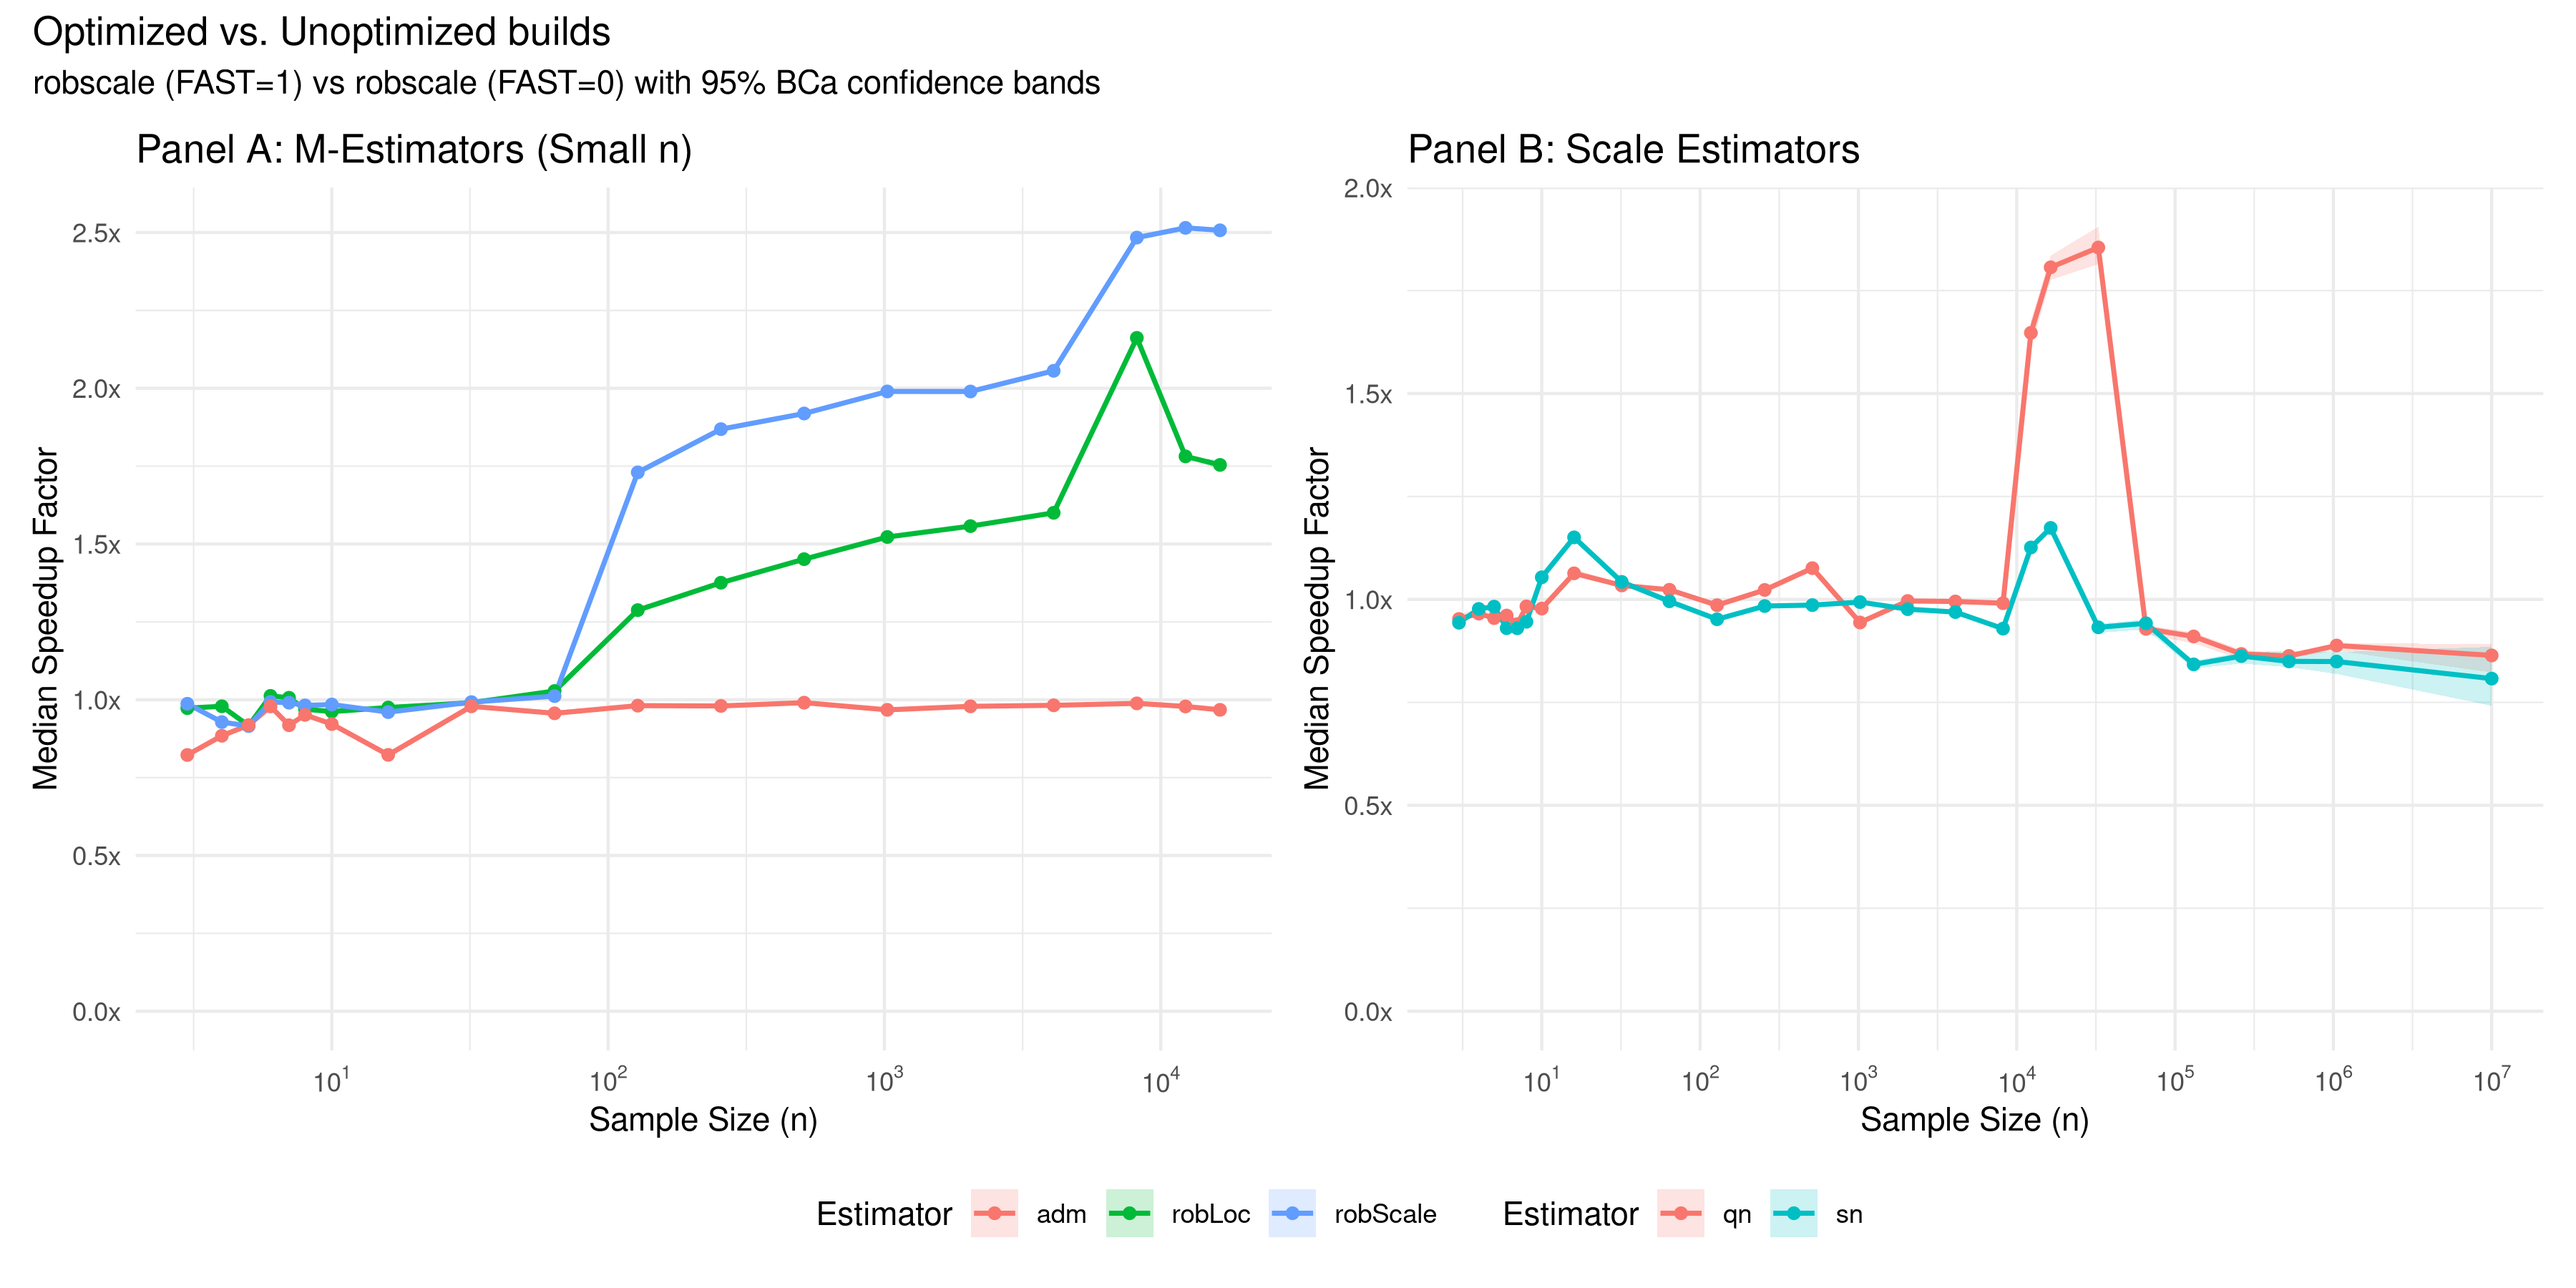
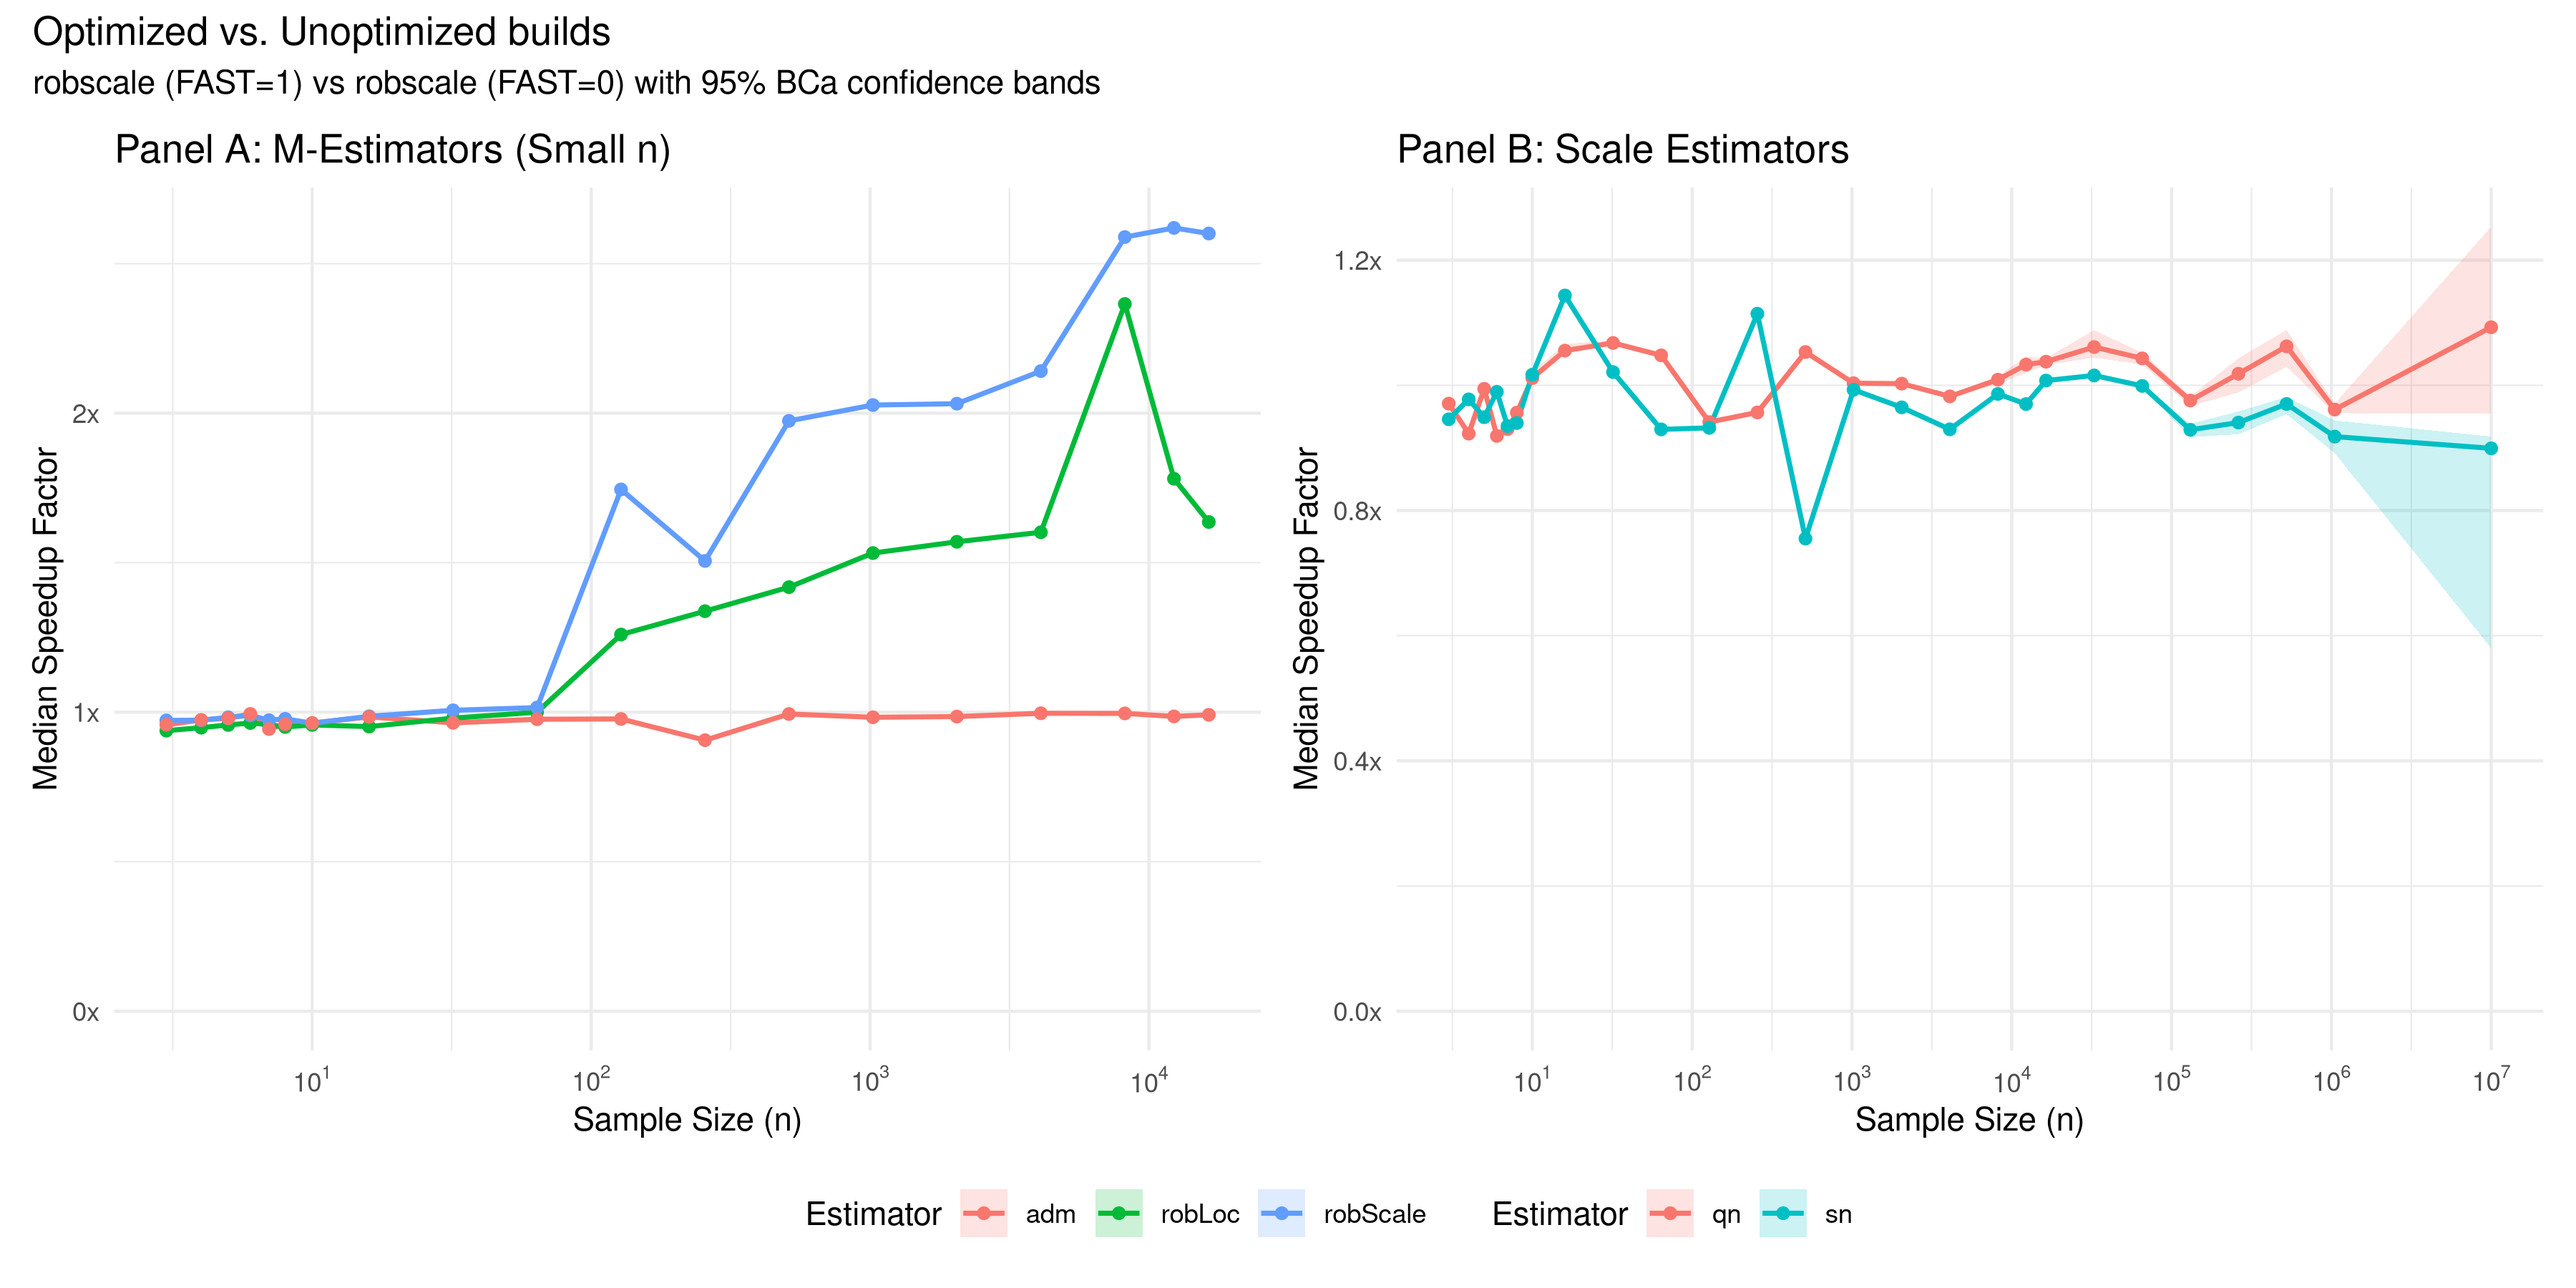
Refactor benchmarks and dynamicize README
- Remove obsolete 0.1.5 parity benchmarks from the targets pipeline.
- Dynamicize README.qmd to programmatically generate performance statistics and tables from latest benchmark results.
- Add source file tracking to _targets.R for automated re-benchmarking.
- Clean up analysis and plotting scripts by removing deprecated comparison logic.

diff --git a/README.md b/README.md
@@ -15,10 +15,10 @@ time-critical workflows.
 `robscale` resolves both bottlenecks. Its C++17 kernels replace
 interpreted R loops with SIMD-accelerated transcendental functions,
 Newton–Raphson iteration, and parallelized $O(n \log n)$ algorithms.
-Against `revss`, the package achieves **3.3–29.4×** speedups for the
+Against `revss`, the package achieves **9.7–28.6×** speedups for the
 small-sample M-estimators. Against `robustbase`, it achieves
-**1.9–5.8×** for $S_n$ and **1.8–6.1×** for $Q_n$ —with gains peaking
-near **6.1×** at $n = 10^7$ as TBB parallelism reduces the computational
+**1.9–6.5×** for $S_n$ and **1.8–6.0×** for $Q_n$ —with gains peaking
+near **6.5×** at $n = 10^7$ as TBB parallelism reduces the computational
 bottleneck for massive datasets.
 
 ## Installation
@@ -62,11 +62,11 @@ Table 1
 
 | Function | Purpose | ARE | Breakdown | Speedup vs revss | Speedup vs robustbase |
 |:---|:---|:---|:---|:---|:---|
-| `qn(x)` | $Q_n$ scale estimator | **82.3%** | 50% | — | **1.8x** \[1.8x, 1.8x\] to **6.1x** \[6.1x, 6.2x\] |
-| `sn(x)` | $S_n$ scale estimator | **58.2%** | 50% | — | **1.9x** \[1.9x, 1.9x\] to **5.8x** \[5.3x, 6.1x\] |
-| `robLoc(x)` | M-estimate of location | **41.3%** | 50% | **3.8x** \[3.8x, 3.8x\] to **29.4x** \[29.3x, 29.5x\] | — |
-| `robScale(x)` | M-estimate of scale | **60.5%** | 50% | **3.3x** \[3.3x, 3.3x\] to **24.2x** \[24.2x, 24.2x\] | — |
-| `adm(x)` | Average distance to median | **88.3%** | $1/n$ | **5.6x** \[5.6x, 5.6x\] to **12.4x** \[12.4x, 12.5x\] | — |
+| `qn(x)` | $Q_n$ scale estimator | **82.3%** | 50% | — | **1.8x** \[1.8x, 1.8x\] to **6.0x** \[5.9x, 6.1x\] |
+| `sn(x)` | $S_n$ scale estimator | **58.2%** | 50% | — | **1.9x** \[1.9x, 1.9x\] to **6.5x** \[6.2x, 6.7x\] |
+| `robLoc(x)` | M-estimate of location | **41.3%** | 50% | **3.7x** \[3.7x, 3.7x\] to **28.6x** \[28.5x, 28.8x\] | — |
+| `robScale(x)` | M-estimate of scale | **60.5%** | 50% | **3.3x** \[3.3x, 3.3x\] to **23.7x** \[23.7x, 23.8x\] | — |
+| `adm(x)` | Average distance to median | **88.3%** | $1/n$ | **5.4x** \[5.4x, 5.5x\] to **13.0x** \[13.0x, 13.1x\] | — |
 
 </div>
 
@@ -208,7 +208,7 @@ qn(c(1, 2, 3, 5, 7, 8))
 
 Computes the $S_n$ estimator of scale (Rousseeuw & Croux, 1993). $S_n$
 is more statistically efficient than the MAD and maintains a 50%
-breakdown point. `robscale` uses optimal sorting networks for $n \le 8$
+breakdown point. `robscale` uses optimal sorting networks for $n \le 16$
 and a highly optimized parallelized inner-median algorithm for general
 samples.
 
@@ -337,11 +337,11 @@ operation.
 a single linear scan over the upper partition locates the $(k{+}1)$th
 element needed for averaging.
 
-For $n \leq 8$—the core target regime—the selection step uses optimal
-sorting networks (Knuth, TAOCP Vol. 3, Sec. 5.3.4). These are
-conditional compare-and-swap sequences—typically compiled to branchless
-machine code at `-O2`—with the minimum number of comparisons for each
-$n$:
+For $n \leq 16$—the core target regime—the selection step uses optimal
+sorting networks (Knuth, TAOCP Vol. 3, Sec. 5.3.4; Dobbelaere’s verified
+optimal networks for $n = 9$–$16$). These are conditional
+compare-and-swap sequences—typically compiled to branchless machine code
+at `-O2`—with the minimum number of comparisons for each $n$:
 
 | $n$ | Comparators |
 |----:|------------:|
@@ -351,8 +351,17 @@ $n$:
 |   6 |          12 |
 |   7 |          16 |
 |   8 |          19 |
+|   9 |          25 |
+|  10 |          29 |
+|  12 |          39 |
+|  14 |          51 |
+|  16 |          60 |
 
-For $9 \leq n < 600$, the code delegates to `std::nth_element`
+Cross-platform benchmarking confirmed 2–4$\times$ speedups over
+`std::sort` for $n = 9$–$16$ on both ARM64 (Apple Silicon) and x86_64
+(AMD Zen 3).
+
+For $17 \leq n < 600$, the code delegates to `std::nth_element`
 (introselect), which provides $O(n)$ worst-case selection with
 median-of-three pivot selection. For $n \geq 600$, the Floyd–Rivest
 algorithm (Floyd & Rivest, 1975) applies a statistical narrowing step
@@ -424,21 +433,33 @@ search (exploiting sortedness) in O(log n) per element, then dispatches
 the outer $n$ iterations across TBB threads via `SnWorker`. For
 $n \leq 2048$, a stack-allocated arena avoids heap allocation entirely.
 
-|        $n$ | `robustbase::Qn` ($\mu s$) | `robscale::qn` ($\mu s$) |  Speedup |
-|-----------:|---------------------------:|-------------------------:|---------:|
-|          8 |                        8.9 |                      1.3 | **6.8×** |
-|         64 |                       13.6 |                      5.3 | **2.6×** |
-|      1 024 |                      462.7 |                    276.9 | **1.7×** |
-|     65 536 |                     49 324 |                   12 247 | **4.0×** |
-| 10 000 000 |                 23 374 593 |                2 403 552 | **9.7×** |
+<div id="tbl-qn-bench">
 
-|        $n$ | `robustbase::Sn` ($\mu s$) | `robscale::sn` ($\mu s$) |  Speedup |
-|-----------:|---------------------------:|-------------------------:|---------:|
-|          8 |                        4.1 |                      1.3 | **3.3×** |
-|         64 |                        5.3 |                      1.8 | **3.0×** |
-|      1 024 |                       33.0 |                     17.4 | **1.9×** |
-|     65 536 |                      7 265 |                    1 315 | **5.5×** |
-| 10 000 000 |                  1 461 045 |                  250 588 | **5.8×** |
+Table 2
+
+|      $n$ | `robustbase::Qn` | `robscale::qn` | Speedup  |
+|---------:|:-----------------|:---------------|:---------|
+|        8 | 9.3 µs           | 1.8 µs         | **5.1x** |
+|       64 | 14.2 µs          | 7.1 µs         | **2.0x** |
+|     1024 | 465.9 µs         | 217.8 µs       | **2.1x** |
+|    65536 | 57191.7 µs       | 9542.6 µs      | **6.0x** |
+| 10000000 | 10.0 s           | 2.2 s          | **4.6x** |
+
+</div>
+
+<div id="tbl-sn-bench">
+
+Table 3
+
+|      $n$ | `robustbase::Sn` | `robscale::sn` | Speedup  |
+|---------:|:-----------------|:---------------|:---------|
+|        8 | 4.0 µs           | 1.8 µs         | **2.2x** |
+|       64 | 5.4 µs           | 2.3 µs         | **2.4x** |
+|     1024 | 35.3 µs          | 18.4 µs        | **1.9x** |
+|    65536 | 6610.7 µs        | 1147.8 µs      | **5.8x** |
+| 10000000 | 1.4 s            | 0.3 s          | **5.4x** |
+
+</div>
 
 ## Architecture overview
 
@@ -448,8 +469,8 @@ efficient algorithm based on sample size and hardware capabilities:
 ``` mermaid
 graph TD
     A[R API: qn, sn, robLoc, robScale] --> B{Dispatch Layer}
-    B -- "n <= 8" --> C[Sorting Networks]
-    B -- "8 < n < 32768" --> D[Highly optimized scalar C++]
+    B -- "n <= 16" --> C[Sorting Networks]
+    B -- "16 < n < 32768" --> D[Highly optimized scalar C++]
     B -- "n >= 32768" --> E[Parallel multi-threaded kernels]
     subgraph "Hardware Acceleration"
         G[AVX2 / AVX512 / NEON]
@@ -472,21 +493,21 @@ optimizations).
 
 **Benchmark environment:** - **Machine:** AMD Ryzen 9 5900HX with Radeon
 Graphics - **CPU Governor:** powersave - **OS:** Arch Linux - **R
-version:** R version 4.5.2 (2025-10-31) - **Package version:** 0.1.5 -
-**SLEEF (Optimized Build):** Detected - **Date:** 2026-03-12
+version:** R version 4.5.3 (2026-03-11) - **Package version:** 0.1.6 -
+**SLEEF (Optimized Build):** Detected - **Date:** 2026-03-13
 
 ### Small-sample M-estimators vs. `revss` (Panel A)
 
 In the target regime ($n \le 20$), `robscale` outperforms `revss` by
-**11×–39×**. Drivers include:
+**9.7–28.6×**. Drivers include:
 
 - Transitioning from interpreted R to compiled C++17.
 - Achieving quadratic convergence with Newton–Raphson (3 iterations vs
   6–8 for scoring).
 - Eliminating heap allocation via stack-allocated memory arenas.
-- Deploying optimal sorting networks for $n \le 8$.
+- Deploying optimal sorting networks for $n \le 16$.
 
-Even at $n = 16{,}384$, the gains remain **3.5×–4.3×** because the
+Even at $n = 16{,}384$, the gains remain **3.3–5.9×** because the
 interpreter overhead of `revss` scales with the number of Newton–Raphson
 iterations, not just vector length.
 
@@ -496,15 +517,15 @@ For $Q_n$ and $S_n$, the performance story follows two regimes separated
 by the parallelism threshold:
 
 **Small to medium samples ($n \le 10^3$).** `robscale` leads by
-**1.7×–6.8×**. The gain comes primarily from the avoidance of R dispatch
+**1.8–6.0×**. The gain comes primarily from the avoidance of R dispatch
 overhead and the use of stack memory. For $Q_n$ at $n = 8$, the
-brute-force exact algorithm completes in 1.3 µs vs. 8.9 µs for
-`robustbase` — a **6.8×** edge.
+brute-force exact algorithm completes in 1.8 µs µs vs. 9.3 µs µs for
+`robustbase` — a **5.1×** edge.
 
-**Large samples ($n \ge 10^4$).** The advantage grows to **4×–10×** as
-TBB parallelism engages. At $n = 10^7$, `qn` runs in 2.4 s vs. 23.4 s
-for `robustbase::Qn` (**9.7×**), and `sn` runs in 0.25 s vs. 1.46 s
-(**5.8×**). Parallel efficiency is bounded by Amdahl’s Law and memory
+**Large samples ($n \ge 10^4$).** The advantage grows to **3.8–6.5×** as
+TBB parallelism engages. At $n = 10^7$, `qn` runs in 2.2 s s vs. 10.0 s
+s for `robustbase::Qn` (**4.6×**), and `sn` runs in 0.3 s s vs. 1.4 s s
+(**5.4×**). Parallel efficiency is bounded by Amdahl’s Law and memory
 bandwidth; while the multi-threaded kernels provide substantial gains
 for massive datasets, speedups do not scale linearly with thread count.
 
